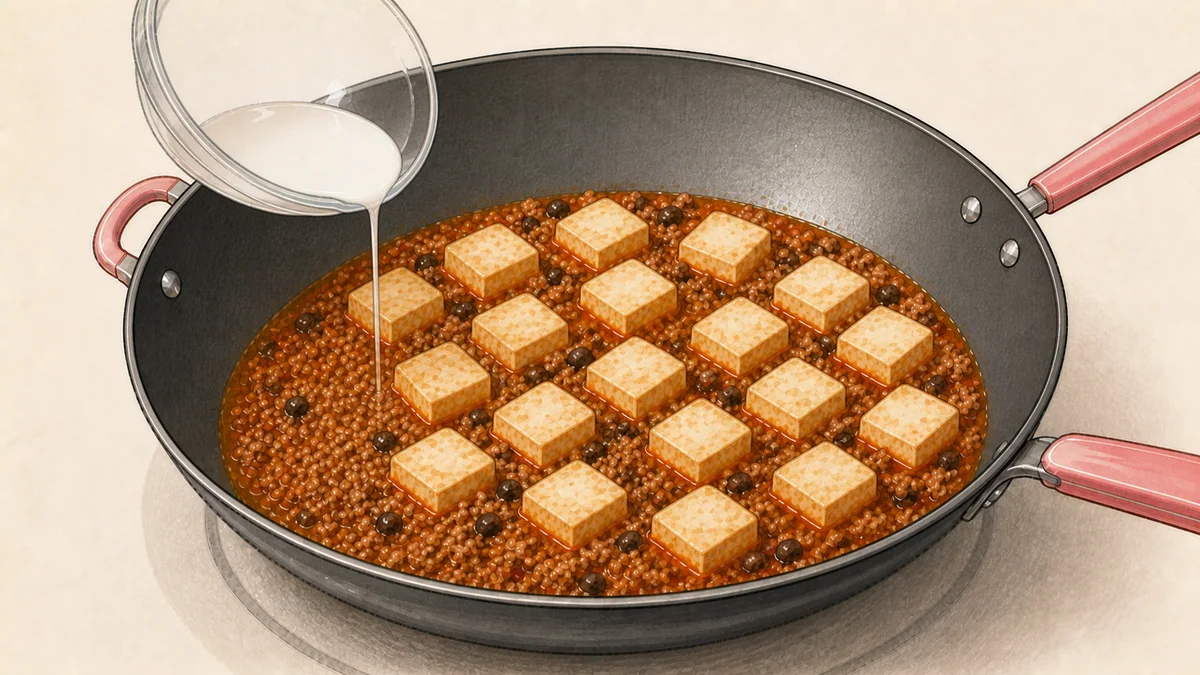
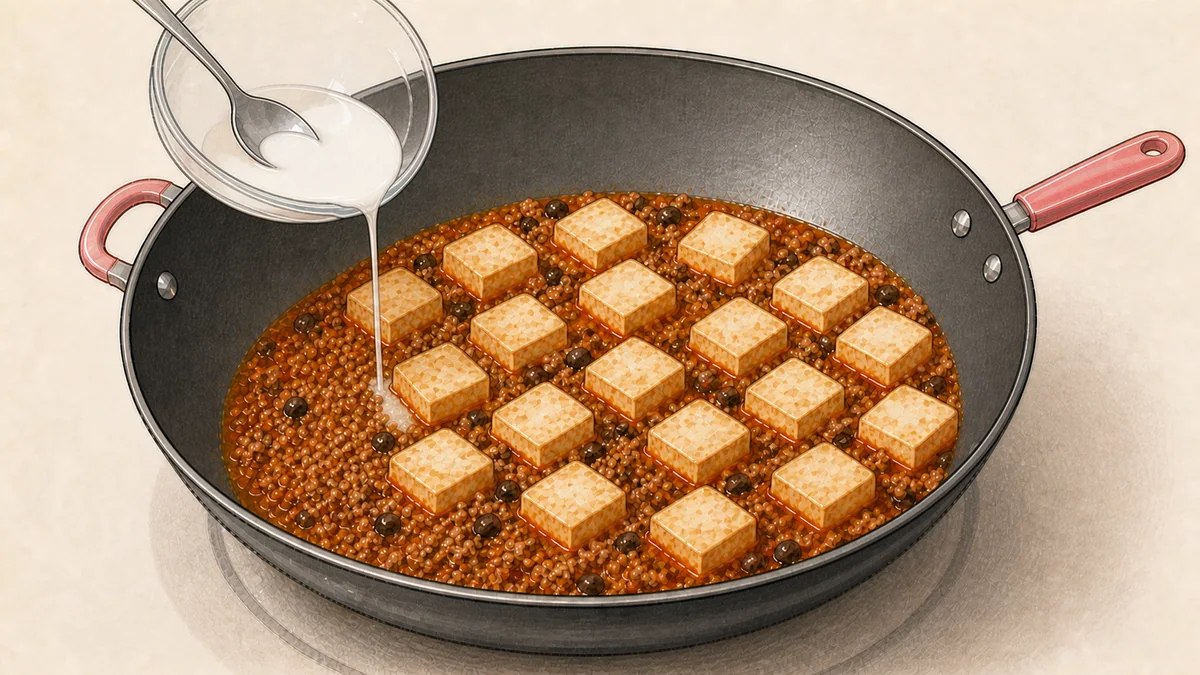
Refine step illustration disclosure

diff --git a/public/assets/site.css b/public/assets/site.css
@@ -239,9 +239,8 @@ body:not(:lang(en)) .region-heading h2 { letter-spacing: -.02em; }
 .recipe-step-illustration { margin: 1.1rem 0 .25rem; overflow: hidden; background: var(--color-surface); border: 1px solid #e7c2cf; border-radius: var(--radius-md); box-shadow: 0 12px 32px rgba(86, 49, 62, .08); }
 .recipe-step-illustration picture, .recipe-step-illustration img { display: block; width: 100%; }
 .recipe-step-illustration img { height: auto; aspect-ratio: 16 / 9; object-fit: cover; background: #fffaf4; }
-.recipe-step-illustration figcaption { display: flex; align-items: baseline; justify-content: space-between; gap: .35rem 1rem; padding: .75rem 1rem .85rem; background: #fffdfb; }
+.recipe-step-illustration figcaption { padding: .75rem 1rem .85rem; background: #fffdfb; }
 .recipe-step-illustration figcaption strong { color: var(--color-primary-hover); font-size: .7rem; }
-.recipe-step-illustration figcaption small { color: var(--color-text-secondary); font-size: .64rem; line-height: 1.5; text-align: right; }
 .recipe-sidebar { align-self: start; padding: clamp(1.5rem, 3.5vw, 2.5rem); background: var(--color-dark); color: var(--color-dark-text); border-radius: var(--radius-lg); box-shadow: var(--shadow-soft); }
 .recipe-sidebar > .eyebrow { color: #f69bbe; }
 .recipe-sidebar > h2 { margin-bottom: 1.5rem; font-size: clamp(2rem, 3vw, 3rem); }
@@ -257,8 +256,9 @@ body:not(:lang(en)) .region-heading h2 { letter-spacing: -.02em; }
 .recipe-sources ul { display: grid; gap: .55rem; margin: 0; padding: 0; list-style: none; }
 .recipe-sources li a { display: flex; justify-content: space-between; gap: 1rem; padding: .75rem .85rem; background: var(--color-surface); border: 1px solid var(--color-border); border-radius: var(--radius-sm); color: var(--color-text-secondary); font-weight: 750; text-decoration: none; }
 .recipe-sources a:hover { color: var(--color-primary-hover); border-color: #d7a1b3; }
-.photo-license-line { margin: 1rem 0 0; }
+.photo-license-line, .illustration-source-line { margin: 1rem 0 0; }
 .photo-license-line a { color: var(--color-primary-hover); font-weight: 750; }
+.illustration-source-line { padding-top: .85rem; border-top: 1px solid #e8cfd8; }
 .back-collection-link { width: fit-content; display: inline-flex; gap: .6rem; align-items: center; margin: 1.5rem 0 5rem; color: var(--color-primary-hover); font-size: .82rem; font-weight: 800; text-decoration: none; }
 .related-recipes { padding: 0 0 6rem; }
 .related-recipes > h2 { margin-bottom: 1.5rem; font-size: clamp(2.3rem, 4vw, 4rem); }
@@ -417,8 +417,7 @@ body:not(:lang(en)) .info-index > p { letter-spacing: .03em; text-transform: non
   .recipe-step-photo-heading { align-items: flex-start; flex-direction: column; gap: .2rem; }
   .recipe-illustration-notice { margin-bottom: 1.2rem; padding: .9rem; }
   .recipe-step-illustration { margin-top: 1rem; border-radius: 1rem; }
-  .recipe-step-illustration figcaption { align-items: flex-start; flex-direction: column; padding: .75rem .85rem; }
-  .recipe-step-illustration figcaption small { text-align: left; }
+  .recipe-step-illustration figcaption { padding: .75rem .85rem; }
   .recipe-sources { grid-template-columns: 1fr; padding: 1.5rem; }
   .related-recipes { padding-bottom: 4rem; }
   .philosophy-section { grid-template-columns: 1fr; padding: 5rem 0; }

diff --git a/docs/illustration-prompts/mapo-tofu-v1.md b/docs/illustration-prompts/mapo-tofu-v1.md
@@ -14,11 +14,12 @@ Use case: scientific-educational. Asset type: Recipe Nest Vault website cooking-
 4. Bloom seasonings: fold a modest 30 g-looking amount of doubanjiang, small irregular 4–6 mm fermented black-bean pieces and one light peppercorn portion through the browned pork until the oil turns red; do not scorch.
 5. Build sauce: pour pale stock into the seasoned pork while a spatula scrapes the wok base; keep soy sauce, Shaoxing wine and sugar nearby; the sauce remains thin and reddish-brown.
 6. Simmer tofu: arrange intact 2 cm tofu cubes in one layer in the loose red sauce with browned pork and small black-bean pieces; show only a gentle uncovered simmer and no utensil touching the tofu.
-7. Thicken in two additions: pour a narrow controlled ribbon of slurry into one edge while about half remains in the clear bowl; the slurry disappears into the red sauce and creates only a lightly clinging gloss.
+7. Thicken in two additions: stir the slurry again with a clearly visible small stainless-steel spoon, then pour a narrow controlled ribbon into one edge while about half remains in the clear bowl; the slurry disappears into the red sauce and creates only a lightly clinging gloss. Use one black wok with exactly one long handle and one short loop helper handle.
 8. Finish and rest: with the heat visibly off, gently fold sliced scallions and a restrained fine dusting of ground Sichuan peppercorn into intact tofu and settled red sauce; keep the food in the wok rather than presenting a plated hero image.
 
 ## Targeted corrections retained in the selected assets
 
 - Step 4: reduced oversized doubanjiang mounds and changed olive-like beans into small fermented black-bean pieces.
 - Step 7: replaced a thick opaque slurry stream and white pool with a narrow stream that immediately integrates into the sauce.
+- Step 7: removed a duplicated long wok handle and restored the missing spoon in the slurry bowl.
 - Step 8: removed a central coarse spice heap, distributed fine peppercorn lightly, and restored a richer chile-red sauce.

diff --git a/README.md b/README.md
@@ -77,7 +77,7 @@ These are permanent release gates. Recipe count, publishing speed and visual com
 ### Static cooking-step illustrations
 
 - Original non-photorealistic static illustrations may explain preparation, order and cooking actions inside a recipe method. They never replace the required real finished-dish photograph.
-- Every illustrated recipe must show a visible five-language disclosure before the method and label each image as an AI-generated illustration rather than a photograph.
+- Every illustrated recipe must show a visible five-language disclosure before the method and label each image as a cooking-step illustration rather than a photograph. Keep the OpenAI `image_gen` generator credit once in the recipe's sources section instead of repeating it under every image.
 - Written quantities, heat, timing, food-safety temperatures and doneness cues remain the cooking standard. An illustration is never evidence of exact portion, colour, texture or completion.
 - Each illustration must be reviewed against its exact step for ingredients, cuts, cookware, action and stage. Correct or reject material visual mismatches before publication.
 - Use an original Recipe Nest Vault editorial illustration language. Do not reproduce recognizable characters, layouts or the distinctive visual identity of an existing animation franchise.
